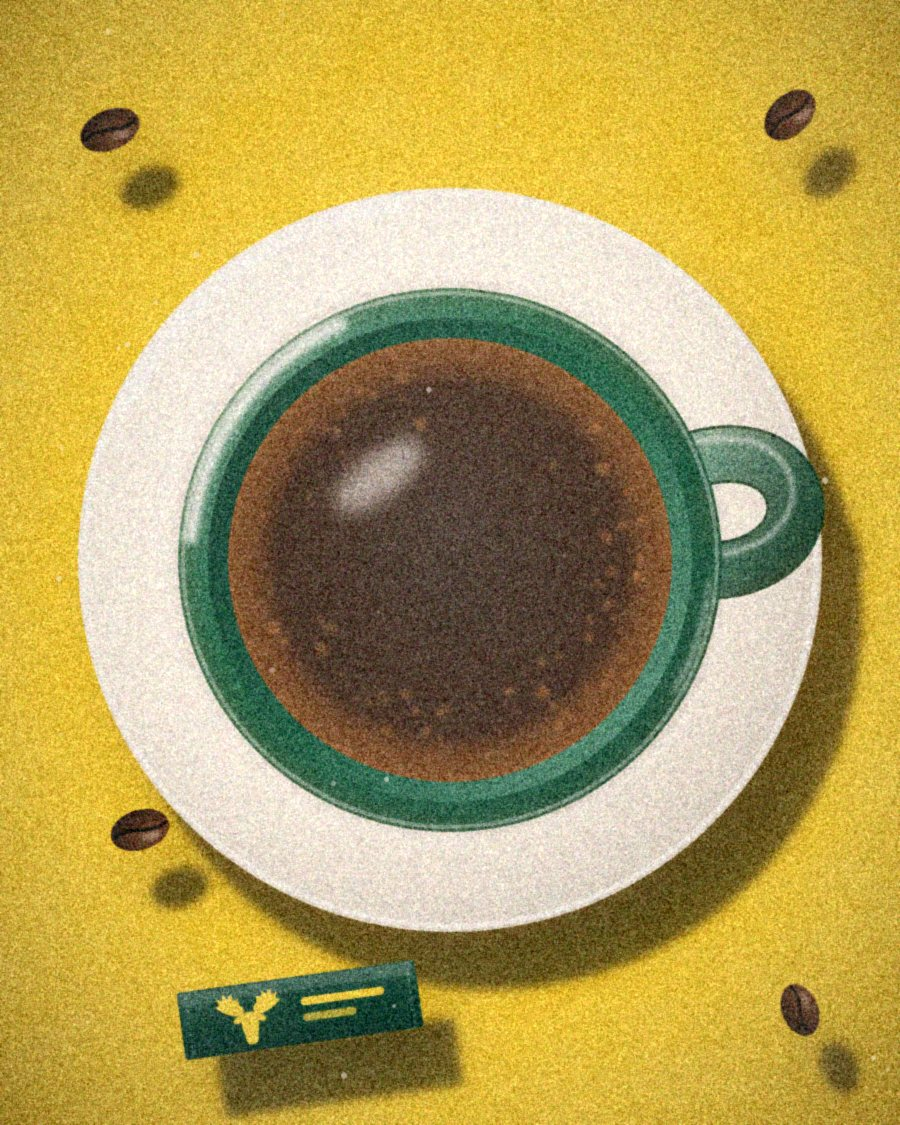
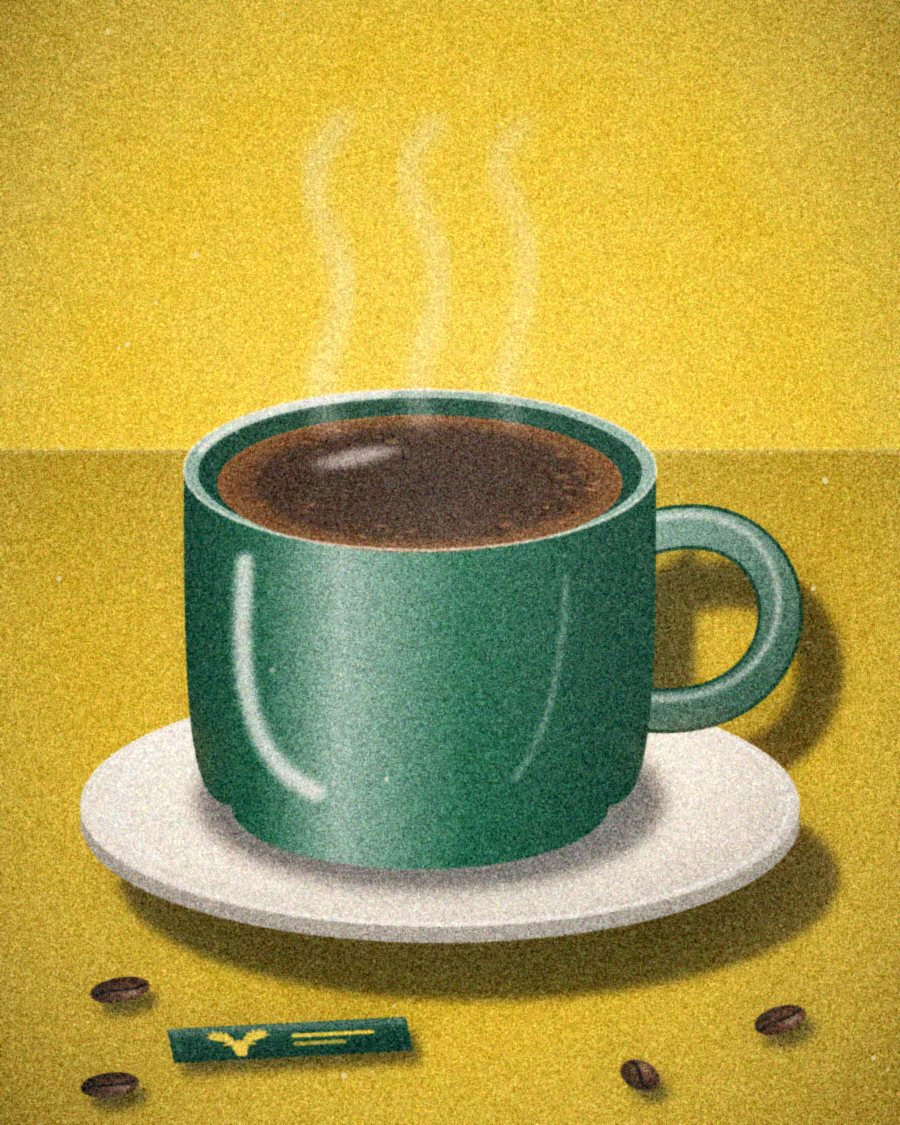
Nespresso-recepten voor de barista, nieuwe camerahoeken, datum van de foto's
- Receptkaart per bestelling met Original- en Vertuo-maten (koffie en melk of water)
- Vijf nieuwe foto's: espresso en cortado van opzij, cappuccino, flat white en americano in driekwartaanzicht
- Oranje datumstempel op de hoofdfoto verwijderd
- .gitignore toegevoegd

Claude-Session: https://claude.ai/code/session_01Ef73ghJ6sifMazNgronum3

diff --git a/moose/public/index.html b/moose/public/index.html
@@ -52,7 +52,6 @@ body[data-view=barista] .only-k,body[data-view=klant] .only-b{display:none!impor
 .photo::after{content:"";position:absolute;inset:0;pointer-events:none;background:var(--grain);mix-blend-mode:soft-light;opacity:.45;box-shadow:inset 0 0 70px rgba(40,20,0,.3)}
 .photo img.dev{animation:dev .9s ease-out}
 @keyframes dev{0%{filter:grayscale(1) blur(10px) brightness(.55) contrast(.8)}55%{filter:grayscale(.35) blur(3px) brightness(.88)}100%{filter:none}}
-.stamp{position:absolute;right:10px;bottom:9px;z-index:2;font:400 15px var(--mono);color:var(--stamp);letter-spacing:.06em;text-shadow:0 0 6px rgba(255,138,31,.85),0 0 2px #ff5a00}
 .fnum{position:absolute;left:9px;top:8px;z-index:2;font:400 12px var(--mono);color:var(--stamp);text-shadow:0 0 5px rgba(255,138,31,.7)}
 .print figcaption{padding:12px 4px 14px;display:flex;flex-direction:column;gap:3px}
 .print figcaption b{font-size:30px;font-weight:800;letter-spacing:-.045em;line-height:1.05;font-variation-settings:"opsz" 72}
@@ -160,6 +159,11 @@ body[data-view=barista] .brand{color:var(--butter);--hole:#0C1A13}
 #off{background:var(--tomato);color:#fff;font-weight:700;font-size:14px;text-align:center;padding:8px 12px}
 @media (prefers-reduced-motion:reduce){*{animation:none!important;transition:none!important;scroll-behavior:auto!important}}
 
+.rcp{margin-top:10px;padding:10px 12px;border-radius:12px;background:rgba(255,255,255,.07);display:grid;grid-template-columns:auto minmax(0,1fr);gap:4px 10px;font-size:14px;line-height:1.35}
+.rcp .lbl{grid-column:1/-1;font-size:12px;color:#93A995;letter-spacing:.06em;text-transform:uppercase;margin:0}
+.rcp b{font:400 12px var(--mono);color:var(--butter);padding-top:2px;letter-spacing:.04em}
+.rcp span:not(.lbl){overflow-wrap:anywhere}
+.rcpfoot{margin:18px 0 0;color:#93A995;font-size:13px;line-height:1.4}
 /* ---------- op / uitverkocht ---------- */
 .frame.off .ph{opacity:.28;filter:grayscale(1)}.frame.off small{opacity:.5;text-decoration:line-through}
 .chip.off{opacity:.45;border-style:dashed;text-decoration:line-through;cursor:not-allowed}
@@ -211,7 +215,7 @@ body[data-view=barista] .brand{color:var(--butter);--hole:#0C1A13}
   </div>
   <section class="hero only-k" aria-live="polite">
     <figure class="print">
-      <div class="photo"><img id="himg" alt=""><span class="fnum" id="fnum"></span><span class="stamp" id="stamp"></span></div>
+      <div class="photo"><img id="himg" alt=""><span class="fnum" id="fnum"></span></div>
       <figcaption><b id="hname"></b><span id="hdesc"></span></figcaption>
     </figure>
   </section>
@@ -272,6 +276,27 @@ function spec(o){const p=[];
   if(o.syrup&&o.syrup!=="Geen")p.push(o.syrup.toLowerCase()+" siroop");
   p.push(o.sugar==="Geen"?"geen suiker":o.sugar==="Zoetstof"?"zoetstof":o.sugar==="Extra sweet"?"extra sweet":"suiker: "+String(o.sugar).toLowerCase());
   return p.join(" · ")}
+/* ---------- Nespresso-recepten ---------- */
+// [capsule-maat, ml, afgeleid]. * = Nespresso geeft hier geen eigen maat, afgeleid van een verwant recept.
+const RCP={
+ "Espresso":{o:["Espresso",40,0],v:["Espresso",40,0]},
+ "Americano":{o:["Ristretto",25,0],v:["Espresso",40,1],water:{o:[125,0],v:[110,1]}},
+ "Cappuccino":{o:["Espresso",40,0],v:["Espresso",40,0],milk:{o:[100,0],v:[90,0],how:"opschuimen"}},
+ "Latte":{o:["Lungo",110,0],v:["Espresso",40,1],milk:{o:[110,1],v:[110,0],how:"opschuimen"}},
+ "Latte macchiato":{o:["Espresso",40,1],v:["Espresso",40,0],milk:{o:[220,1],v:[220,0],how:"opschuimen, eerst in het glas"}},
+ "Flat white":{o:["Espresso",40,0],v:["Espresso",40,0],milk:{o:[90,0],v:[90,0],how:"opschuimen"}},
+ "Macchiato":{o:["Espresso",40,0],v:["Espresso",40,0],milk:{o:[15,1],v:[15,1],how:"als melkschuim erbovenop",approx:1}},
+ "Cortado":{o:["Espresso",40,0],v:["Espresso",40,1],milk:{o:[100,0],v:[100,1],how:"opschuimen: 20 ml warme melk bij de koffie en 2 lepels schuim erbovenop"}}};
+function rcpLine(sys,o){const r=RCP[o.drink];if(!r)return null;const[n,ml,st]=r[sys],s=st?"*":"",dbl=!!o.dbl;
+  const cup=sys==="o"?(dbl?"2 × "+n+" (2 × "+ml+" ml)":"1 × "+n+" ("+ml+" ml)"):(dbl?(ml===40?"Double Espresso (80 ml)":"2 × "+n+" (2 × "+ml+" ml)"):n+" ("+ml+" ml)");
+  let t=cup+s;
+  if(r.water)t+=" + "+r.water[sys][0]+" ml heet water"+(r.water[sys][1]?"*":"");
+  if(r.milk){if(!o.milk||o.milk==="Geen melk")t+=" · zonder melk";
+    else{const[m,ms]=r.milk[sys];t+=" · melk: "+(r.milk.approx?"± ":"")+m+" ml "+(MILKTXT[o.milk]||o.milk.toLowerCase())+(ms?"*":"")+", "+r.milk.how}}
+  return t}
+function rcp(o){if(!RCP[o.drink])return null;
+  return h("div",{class:"rcp",role:"group","aria-label":"Recept volgens Nespresso"},h("span",{class:"lbl"},"Recept"),
+    h("b",{},"Original"),h("span",{},rcpLine("o",o)),h("b",{},"Vertuo"),h("span",{},rcpLine("v",o)))}
 const sug=o=>{const d=DM[o.drink];return Math.max(1,Math.min(5,(d?d.mins:3)+(o.dbl?1:0)+(o.syrup&&o.syrup!=="Geen"?1:0)))};
 const ago=ms=>{const m=Math.floor(ms/60000);return m<1?"net binnen":m+" min geleden"};
 const clock=ms=>{const a=Math.abs(Math.ceil(ms/1000)),m=Math.floor(a/60),s=a%60;return (ms<0?"+":"")+pad(m)+":"+pad(s)};
@@ -294,13 +319,12 @@ let tt;function toast(t){const e=$("#toast");e.textContent=t;e.classList.add("on
 
 /* ---------- hero en filmstrook ---------- */
 function paintHero(anim){
-  const d=DM[S.f.drink],i=DRINKS.indexOf(d),im=$("#himg"),t=new Date();
+  const d=DM[S.f.drink],i=DRINKS.indexOf(d),im=$("#himg");
   if(!im.src.endsWith("/photos/"+d.slug+".jpg")){im.style.opacity=1;im.src=photoSrc(d.n)}
   im.alt=d.n+": filmfoto van een kopje op een gekleurde achtergrond";
   if(anim){im.classList.remove("dev");void im.offsetWidth;im.classList.add("dev")}
   $("#hname").textContent=title({drink:d.n,dbl:S.f.dbl});$("#hdesc").textContent=d.d;
   $("#fnum").textContent=pad(i+1)+"A";
-  $("#stamp").textContent="’"+String(t.getFullYear()).slice(2)+" "+pad(t.getMonth()+1)+" "+pad(t.getDate());
 }
 function buildStrip(){const r=$("#reel");
   DRINKS.forEach((d,i)=>r.append(h("button",{class:"frame",role:"radio","aria-checked":"false","data-n":d.n,onclick:()=>choose(d.n)},
@@ -376,6 +400,7 @@ function job(o){
   const b=h("div",{},h("div",{class:"who"},o.name),h("div",{class:"spec"},title(o)+" · "+spec(o)));
   if(o.status==="nieuw"||o.status==="voorstel")b.append(h("div",{class:"meta","data-t":"since","data-at":o.createdAt},ago(now()-o.createdAt)));
   if(o.note)b.append(h("div",{class:"qnote"},"Opmerking: "+o.note));
+  if(o.status==="nieuw"||o.status==="bezig"||o.status==="voorstel")b.append(rcp(o));
   if(o.status==="nieuw"){
     if(o.accepted)b.append(h("span",{class:"tag"},"Voorstel aangenomen"));
     const m=S.pick[o.id]||sug(o);
@@ -419,7 +444,7 @@ function renderBarista(){
     wait.length?[h("h2",{},"Wachtend"),h("div",{class:"cols"},wait.map(job))]:null,
     !busy.length&&!wait.length?h("div",{class:"qempty"},(()=>{const s=document.createElementNS("http://www.w3.org/2000/svg","svg");s.setAttribute("viewBox","0 0 120 100");s.innerHTML='<use href="#moose"/>';return s})(),h("p",{},"Geen bestellingen. Tijd voor een eigen espresso?")):null,
     done.length?[h("h2",{},"Net klaar"),h("div",{class:"cols"},done.map(doneRow))]:null,
-    stockPanel())}
+    stockPanel(),h("p",{class:"rcpfoot"},"Recepten volgens Nespresso. Een * betekent dat Nespresso hier geen eigen maat geeft: de hoeveelheid is afgeleid van een verwant recept."))}
 
 /* ---------- geluid ---------- */
 let ac;const AC=window.AudioContext||window.webkitAudioContext;

diff --git a/moose/README.md b/moose/README.md
@@ -67,6 +67,14 @@ In het baristascherm staat onderaan "Voorraad". Tik aan wat op is: een drankje, 
 suiker/zoetstof. Gasten zien het meteen grijs en doorgestreept en kunnen het niet meer kiezen. De server
 weigert zo'n bestelling ook. De keuze blijft bewaard in `settings.json`.
 
+## Nespresso-recepten voor de barista
+Op elke bestelling in het baristascherm staat een kaartje "Recept" met de hoeveelheden voor Nespresso Original en Vertuo:
+welke maat (Ristretto 25 ml, Espresso 40 ml, Lungo 110 ml, Double Espresso 80 ml) en hoeveel melk of heet water.
+Dubbel betekent bij Original 2 capsules en bij Vertuo een Double Espresso. De maten komen uit de officiële Nespresso-recepten
+(onder andere cappuccino 40 ml + 100 ml melk, flat white 40 ml + 90 ml melk, latte macchiato 220 ml melk, americano 25 ml + 125 ml water).
+Een * betekent dat Nespresso zelf geen maat geeft voor dat systeem en dat de hoeveelheid is afgeleid van een verwant recept.
+Je past de maten aan in `public/index.html`, bij `RCP`.
+
 ## Goed om te weten
 - Bestellingen staan in `orders.json` en de voorraad in `settings.json`, naast `server.js`. Ze blijven bewaard na een herstart.
 - Andere poort: `PORT=8080 node server.js`.
